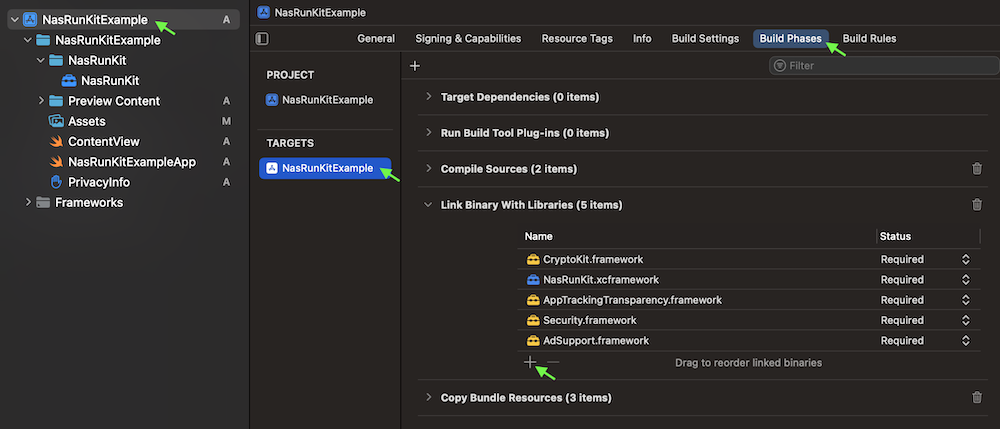
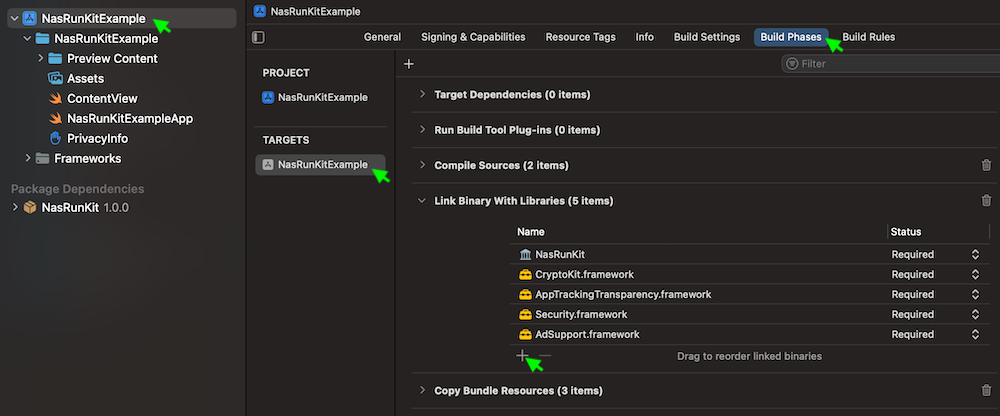
Update README.md

diff --git a/README.md b/README.md
@@ -1,9 +1,11 @@
 # NasRun iOS 연동 가이드
 
+[![GitHub release](https://img.shields.io/github/tag/mafin-global/nas-run-ios.svg)](https://github.com/mafin-global/nas-run-ios)
+
 ## 목차
 - [1. 개요](#1-개요)
 - [2. 설치](#2-설치)
-  - [2-1. SDK 파일 추가](#2-1-sdk-파일-추가)
+  - [2-1. NasRunKit 패키지 추가](#2-1-NasRunKit-패키지-추가)
   - [2-2. 라이브러리 추가](#2-2-라이브러리-추가)
   - [2-3. 추적 권한 허용 표시 문구 설정](#2-3-추적-권한-허용-표시-문구-설정)
   - [2-4. Privacy Manifest 설정](#2-4-privacy-manifest-설정)
@@ -19,15 +21,26 @@
 
 ## 2. 설치
 
-### 2-1. SDK 파일 추가
-`/sdk` 폴더에 있는 `NasRunKit.xcframework` 파일을 프로젝트에 추가합니다.
+### 2-1. NasRunKit 패키지 추가
+`File` > `Add Package Dependency...` 메뉴를 선택합니다.
 
-![SDK 파일 추가](img/add_sdk_file.png)
+![Add Package Dependencies...](img/menu_file_add_package.png)
+
+우측 상단 검색에 `https://github.com/mafin-global/nas-run-ios` 를 입력하고 `Add Package` 버튼을 클릭합니다.
+
+![Add Package 1](img/add_package_1.png)
+
+`Add to Target` 이 개발 중인 프로젝트가 맞는지 확인하고 `Add Package` 버튼을 클릭합니다.
+
+![Add Package 2](img/add_package_2.png)
+
+`NasRunKit` 패키지가 정상적으로 추가되었는지 확인합니다.
+
+![Confirm Added Package](img/confirm_added_package.png)
 
 ### 2-2. 라이브러리 추가
 `프로젝트 설정` > `Build Phases` > `Link Binary With Libraries` 에서 다음 라이브러리를 추가합니다.
 
-- NasRunKit.xcframework
 - AppTrackingTransparency.framework
 - AdSupport.framework
 - CryptoKit.framework
